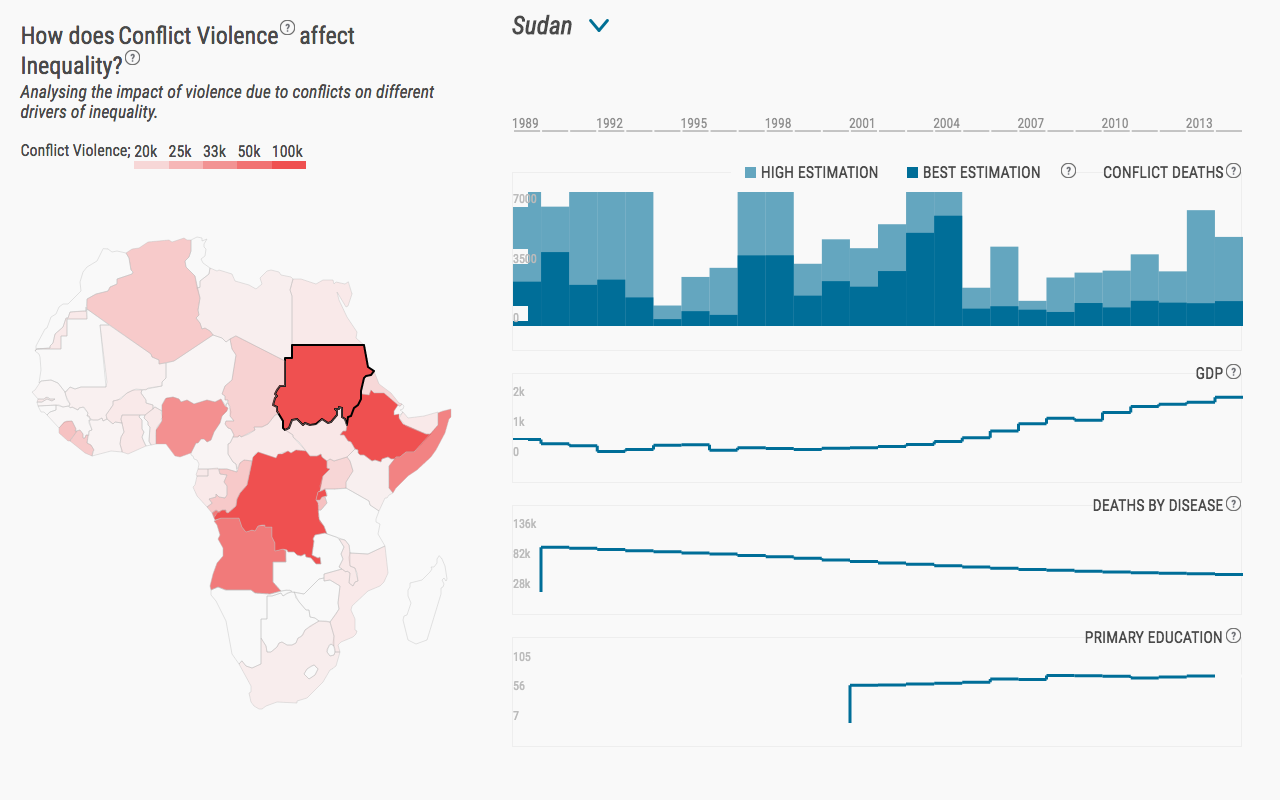
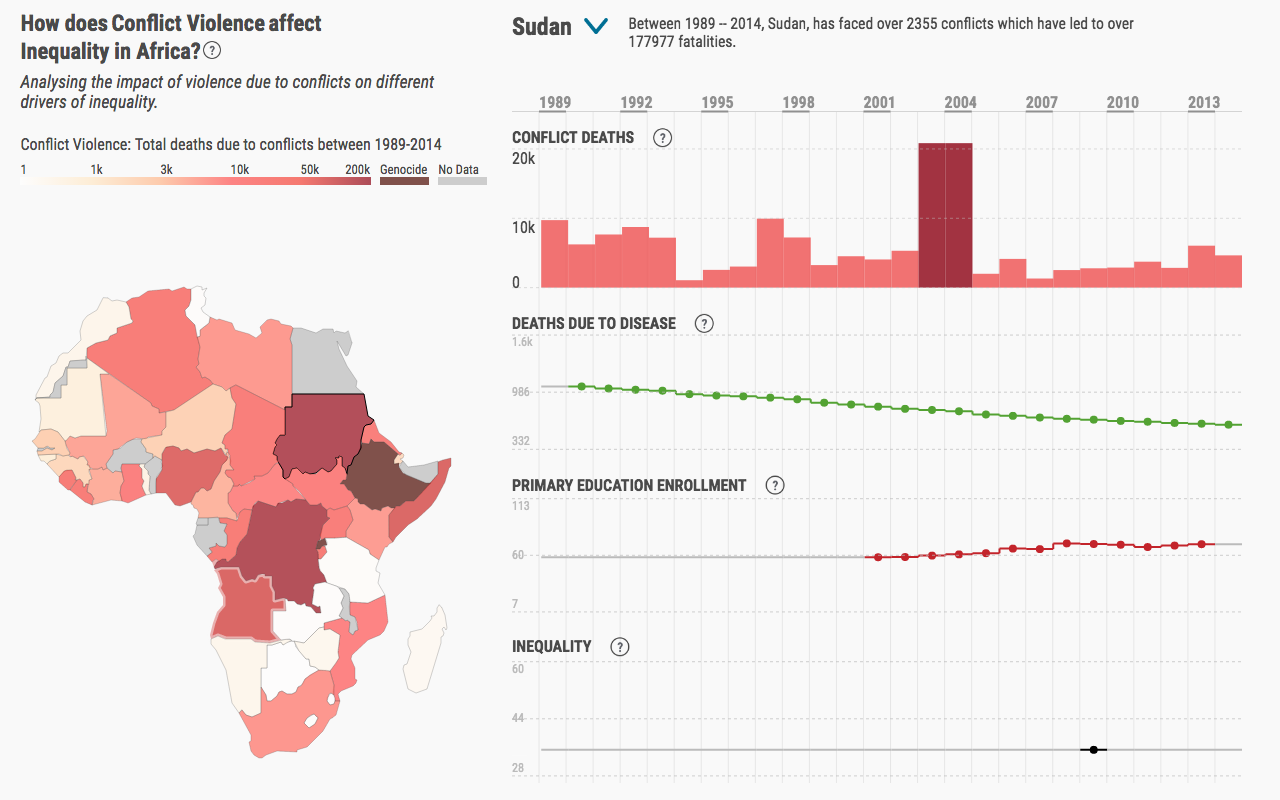
updating meta info

diff --git a/undp/public/v3/index.html b/undp/public/v3/index.html
@@ -2,10 +2,15 @@
 <html>
 <head>
 	<meta name="viewport" content="width=device-width, user-scalable=no">
+	<meta property="og:title" content="How does  Conflict Violence  affect Inequality in Africa?" />
+	<meta property="og:type" content="website" />
+	<meta property="og:url" content="https://agaase.github.io/major-studio-1/undp/quantitative/" />
+	<meta property="og:image" content="previewv3.jpg" />
 	<!-- <link rel="stylesheet" type="text/css" href="css/main.css">
 	<link rel="stylesheet" href="css/leaflet.min.css" /> -->
+	<link rel="icon" href="images/africa-icon.png">
 	<link rel="stylesheet" href="css/single.min.css" />
-	<title></title>
+	<title>How does  Conflict Violence  affect Inequality in Africa?</title>
 	<script type="text/javascript">
 		var dontShowUncertainty = true;
 	</script>
